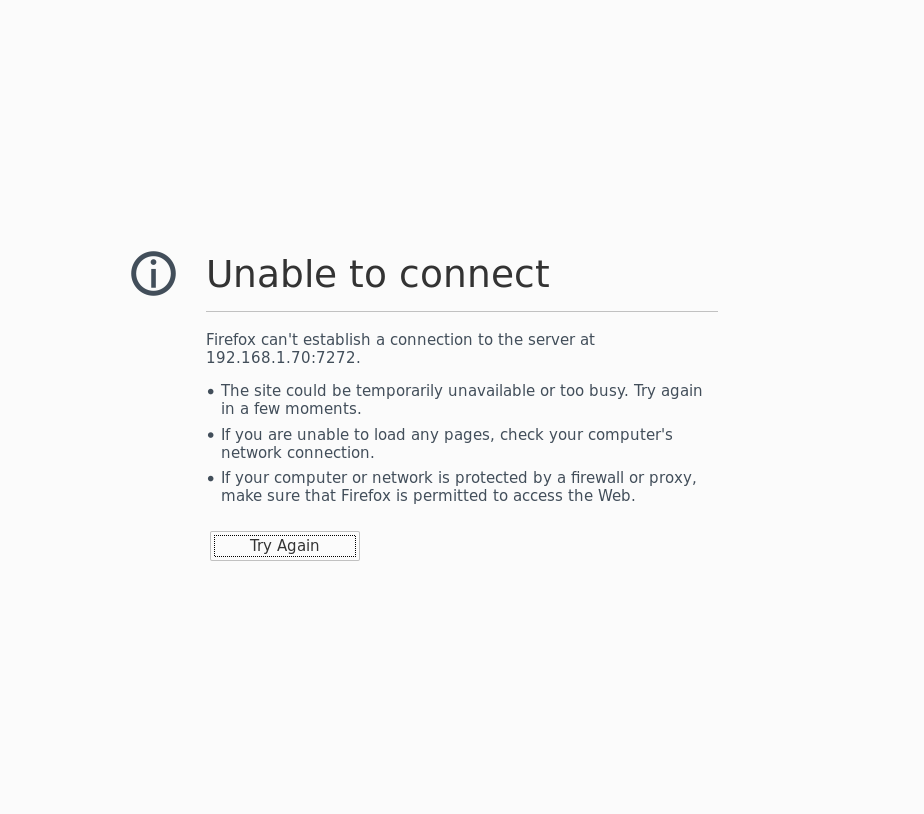
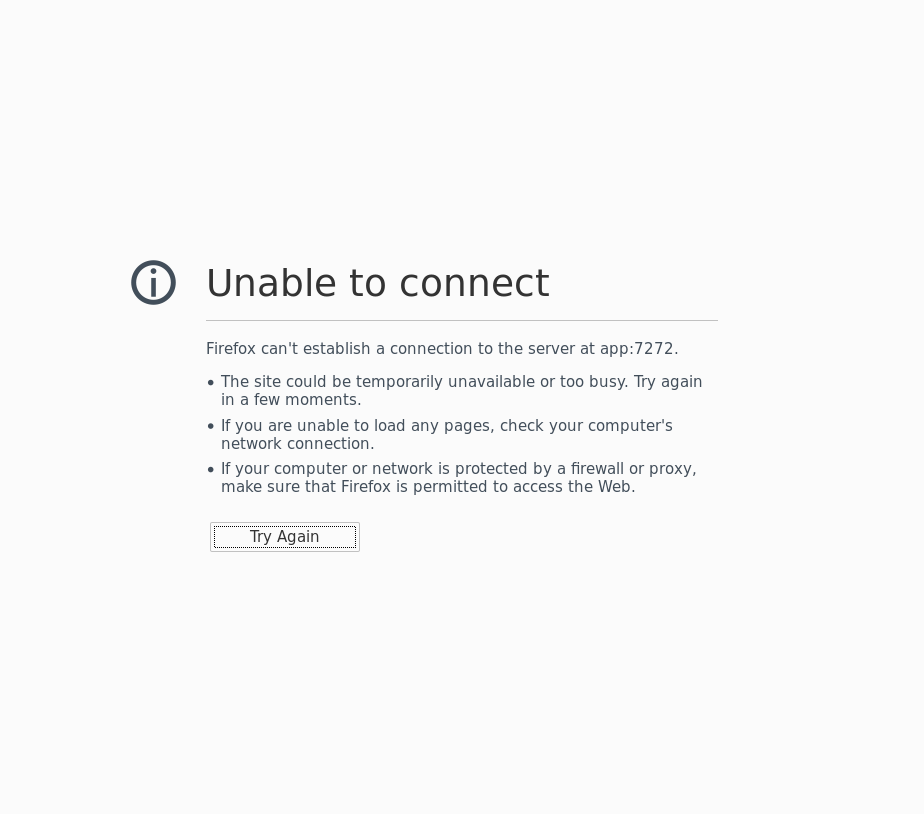
fixed node to hub connection failure

diff --git a/WebDemo/login_tests/log.html b/WebDemo/login_tests/log.html
@@ -1717,28 +1717,28 @@ function stopPropagation(event) {
 window.output = {};
 </script>
 <script type="text/javascript">
-window.output["suite"] = [1,2,3,4,[],[1,0,2853],[],[[1,0,1,0,[],[1,78,2774],[[0,5,6,0,0,0,0,0,[1,79,2203],[[0,7,8,0,9,10,0,0,[1,79,2136],[],[[79,2,11]]],[0,12,8,0,13,0,0,0,[1,2215,53],[],[]],[0,14,8,0,15,16,0,0,[1,2268,0],[],[]],[0,17,6,0,0,0,0,0,[1,2268,14],[[0,18,8,0,19,20,0,0,[1,2269,12],[],[[2281,2,21]]]],[]]],[]],[0,22,6,0,0,23,0,0,[1,2282,160],[[0,24,8,0,25,26,0,0,[1,2283,159],[],[[2283,2,27]]]],[]],[0,28,6,0,0,29,0,0,[1,2442,83],[[0,24,8,0,25,30,0,0,[1,2442,83],[],[[2443,2,31]]]],[]],[0,32,6,0,0,0,0,0,[1,2526,224],[[0,33,8,0,34,35,0,0,[1,2526,224],[],[[2527,2,36]]]],[]],[0,37,6,0,0,0,0,0,[1,2751,31],[[0,38,8,0,39,40,0,0,[1,2751,19],[],[[2769,2,41]]],[0,18,8,0,19,42,0,0,[1,2770,12],[],[[2782,2,43]]]],[]],[2,44,8,0,45,0,0,0,[1,2783,68],[],[]]]]],[],[1,1,1,1]];
+window.output["suite"] = [1,2,3,4,[],[0,0,2432],[],[[1,0,1,0,[],[0,65,2366,5],[[0,6,7,0,0,0,0,0,[0,66,2286],[[0,8,9,0,10,11,0,0,[1,66,2137],[],[[66,2,12]]],[0,13,9,0,14,0,0,0,[1,2204,32],[],[]],[0,15,9,0,16,17,0,0,[1,2236,0],[],[]],[0,18,7,0,0,0,0,0,[0,2236,116],[[0,19,9,0,20,21,0,0,[0,2237,115],[[0,22,9,0,23,0,0,0,[1,2267,84],[],[[2351,2,24]]]],[[2352,5,5]]]],[]]],[]],[2,25,9,0,26,0,0,0,[1,2353,78],[],[]]]]],[],[1,0,1,0]];
 </script>
 <script type="text/javascript">
 window.output["strings"] = [];
 </script>
 <script type="text/javascript">
[1 lines of base64/hex data omitted]
+window.output["strings"] = window.output["strings"].concat(["*","*Valid Login","*/robot/valid_login.robot","*valid_login.robot","*<p>A test suite with a single test for valid login.\x3c/p>\n<p>This test has a workflow that is created using keywords in the imported resource file.\x3c/p>","*Title should have been 'Login Page' but was 'Problem loading page'","*Open Browser To Login Page","*resource","*Open Browser","*Selenium2Library","*<p>Opens a new browser instance to given URL.\x3c/p>","*${LOGIN URL}, ${BROWSER}, None, <a href=\"http://hub:4444/wd/hub\">http://hub:4444/wd/hub\x3c/a>","*Opening browser 'Firefox' to base url '<a href=\"http://app:7272/\">http://app:7272/\x3c/a>' through remote server at '<a href=\"http://hub:4444/wd/hub\">http://hub:4444/wd/hub\x3c/a>'","*Maximize Browser Window","*<p>Maximizes current browser window.\x3c/p>","*Set Selenium Speed","*<p>Sets the delay in seconds that is waited after each Selenium command.\x3c/p>","*${DELAY}","*Login Page Should Be Open","*Title Should Be","*<p>Verifies that current page title equals `title`.\x3c/p>","*Login Page","*Capture Page Screenshot","*<p>Takes a screenshot of the current page and embeds it into the log.\x3c/p>","*\x3c/td>\x3c/tr><tr><td colspan=\"3\"><a href=\"selenium-screenshot-1.png\"><img src=\"selenium-screenshot-1.png\" width=\"800px\">\x3c/a>","*Close Browser","*<p>Closes the current browser.\x3c/p>"]);
 </script>
 <script type="text/javascript">
-window.output["stats"] = [[{"elapsed":"00:00:03","fail":0,"label":"Critical Tests","pass":1},{"elapsed":"00:00:03","fail":0,"label":"All Tests","pass":1}],[],[{"elapsed":"00:00:03","fail":0,"id":"s1","label":"Valid Login","name":"Valid Login","pass":1}]];
+window.output["stats"] = [[{"elapsed":"00:00:02","fail":1,"label":"Critical Tests","pass":0},{"elapsed":"00:00:02","fail":1,"label":"All Tests","pass":0}],[],[{"elapsed":"00:00:02","fail":1,"id":"s1","label":"Valid Login","name":"Valid Login","pass":0}]];
 </script>
 <script type="text/javascript">
 window.output["errors"] = [];
 </script>
 <script type="text/javascript">
-window.output["baseMillis"] = 1458158163707;
+window.output["baseMillis"] = 1458250328076;
 </script>
 <script type="text/javascript">
-window.output["generatedMillis"] = 2293;
+window.output["generatedMillis"] = 1924;
 </script>
 <script type="text/javascript">
-window.output["generatedTimestamp"] = "20160316 19:56:06 GMT 00:00";
+window.output["generatedTimestamp"] = "20160317 21:32:10 GMT 00:00";
 </script>
 <script type="text/javascript">
 window.settings = {"defaultLevel":"INFO","minLevel":"INFO","reportURL":"report.html","splitLogBase":"log","title":""};

diff --git a/WebDemo/login_tests/report.html b/WebDemo/login_tests/report.html
@@ -1557,25 +1557,25 @@ storage = function () {
 window.output = {};
 </script>
 <script type="text/javascript">
-window.output["suite"] = [1,2,3,4,[],[1,0,2853],[],[[1,0,1,0,[],[1,78,2774],[]]],[],[1,1,1,1]];
+window.output["suite"] = [1,2,3,4,[],[0,0,2432],[],[[1,0,1,0,[],[0,65,2366,5],[]]],[],[1,0,1,0]];
 </script>
 <script type="text/javascript">
 window.output["strings"] = [];
 </script>
 <script type="text/javascript">
-window.output["strings"] = window.output["strings"].concat(["*","*Valid Login","*/robot/valid_login.robot","*valid_login.robot","*<p>A test suite with a single test for valid login.\x3c/p>\n<p>This test has a workflow that is created using keywords in the imported resource file.\x3c/p>"]);
+window.output["strings"] = window.output["strings"].concat(["*","*Valid Login","*/robot/valid_login.robot","*valid_login.robot","*<p>A test suite with a single test for valid login.\x3c/p>\n<p>This test has a workflow that is created using keywords in the imported resource file.\x3c/p>","*Title should have been 'Login Page' but was 'Problem loading page'"]);
 </script>
 <script type="text/javascript">
-window.output["stats"] = [[{"elapsed":"00:00:03","fail":0,"label":"Critical Tests","pass":1},{"elapsed":"00:00:03","fail":0,"label":"All Tests","pass":1}],[],[{"elapsed":"00:00:03","fail":0,"id":"s1","label":"Valid Login","name":"Valid Login","pass":1}]];
+window.output["stats"] = [[{"elapsed":"00:00:02","fail":1,"label":"Critical Tests","pass":0},{"elapsed":"00:00:02","fail":1,"label":"All Tests","pass":0}],[],[{"elapsed":"00:00:02","fail":1,"id":"s1","label":"Valid Login","name":"Valid Login","pass":0}]];
 </script>
 <script type="text/javascript">
-window.output["baseMillis"] = 1458158163707;
+window.output["baseMillis"] = 1458250328076;
 </script>
 <script type="text/javascript">
-window.output["generatedMillis"] = 2293;
+window.output["generatedMillis"] = 1924;
 </script>
 <script type="text/javascript">
-window.output["generatedTimestamp"] = "20160316 19:56:06 GMT 00:00";
+window.output["generatedTimestamp"] = "20160317 21:32:10 GMT 00:00";
 </script>
 <script type="text/javascript">
 window.settings = {"background":{"fail":"#f66","nonCriticalFail":"#9e9","pass":"#9e9"},"logURL":"log.html","title":""};

diff --git a/WebDemo/demoapp/server.py b/WebDemo/demoapp/server.py
@@ -27,7 +27,7 @@ class DemoServer(TCPServer):
     allow_reuse_address = True
 
     def __init__(self, port=PORT):
-        TCPServer.__init__(self, ('192.168.1.70', int(port )), SimpleHTTPRequestHandler)
+        TCPServer.__init__(self, ('localhost', int(port )), SimpleHTTPRequestHandler)
 
     def serve(self, directory=ROOT):
         chdir(directory)
